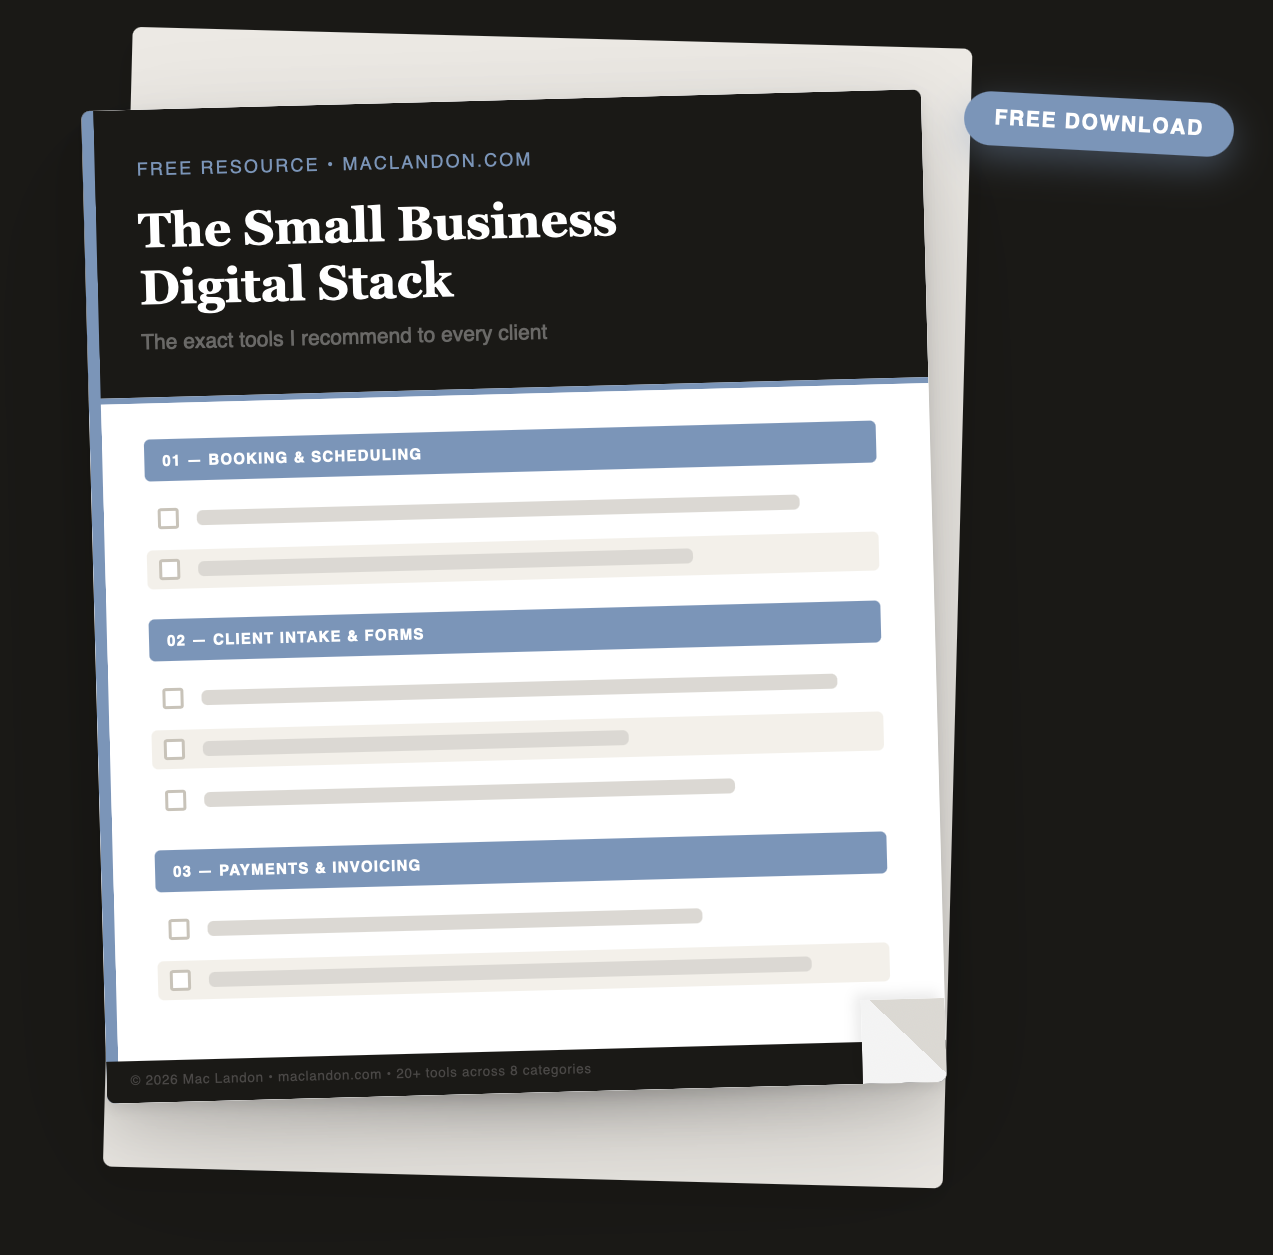
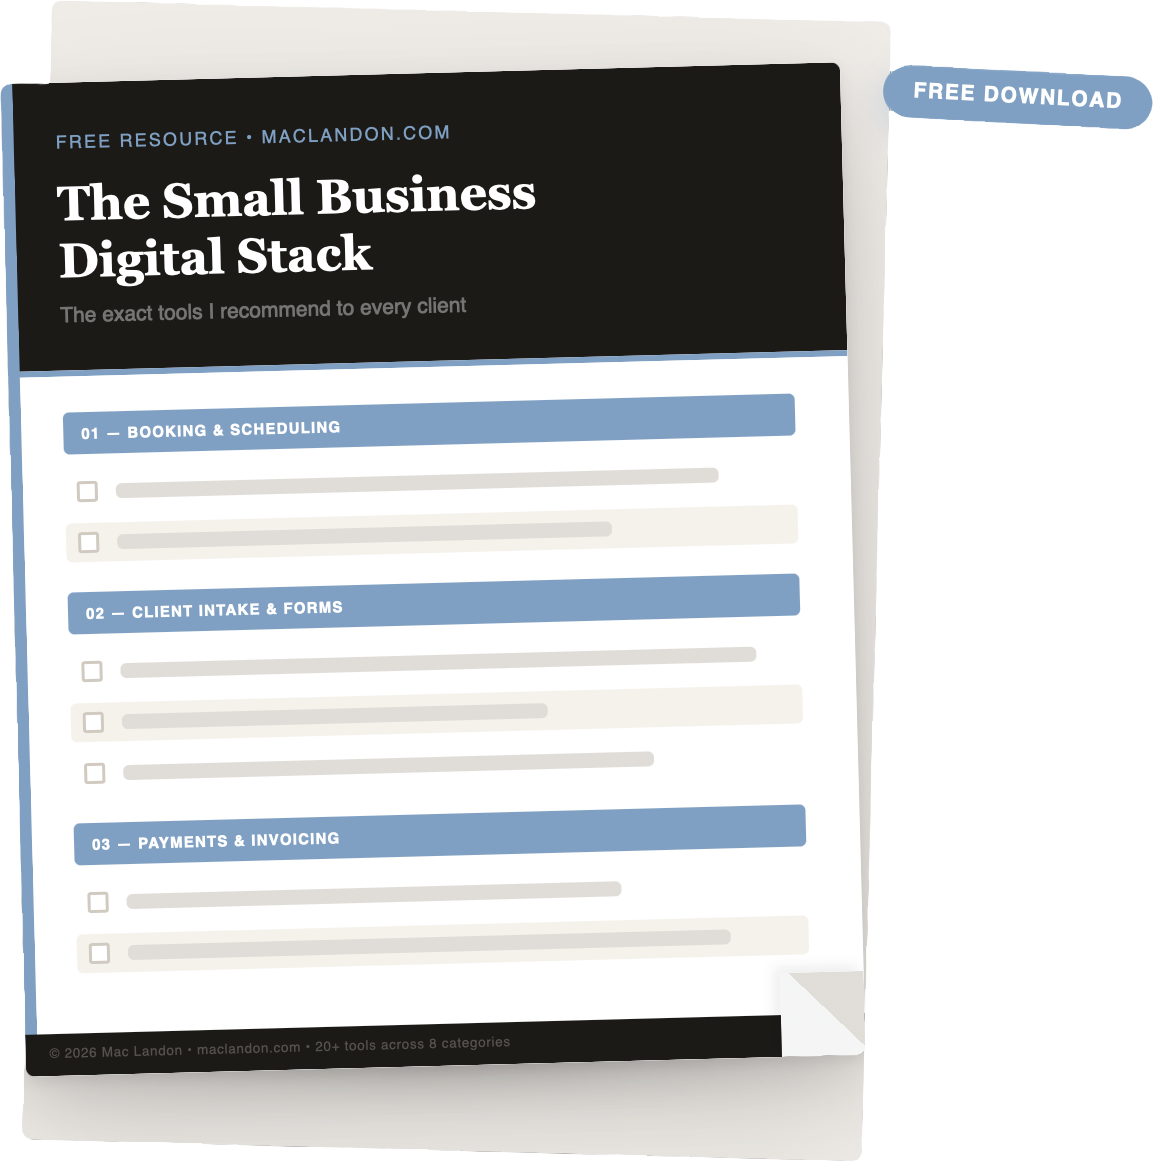
pdf mockup: remove border-radius, add drop shadow, cache bust

diff --git a/index.html b/index.html
@@ -959,7 +959,7 @@ footer{background:var(--dark2);border-top:1px solid rgba(255,255,255,.06);paddin
       <p class="guide-fine">No spam. Instant download.</p>
     </div>
     <div class="guide-right">
-      <img src="pdf-mockup.png" alt="Digital Stack Guide" loading="lazy" style="width:100%;border-radius:12px;">
+      <img src="pdf-mockup.png?v=2" alt="Digital Stack Guide" loading="lazy" style="width:100%; filter: drop-shadow(0 30px 60px rgba(0,0,0,0.6));">
     </div>
   </div>
 </section>
